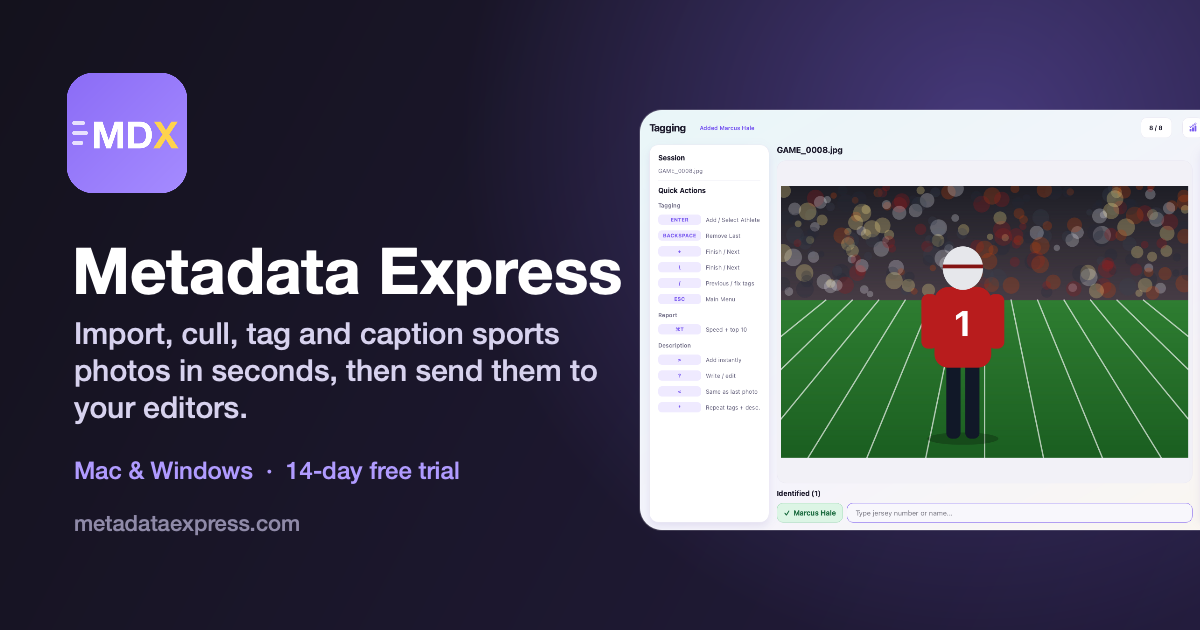
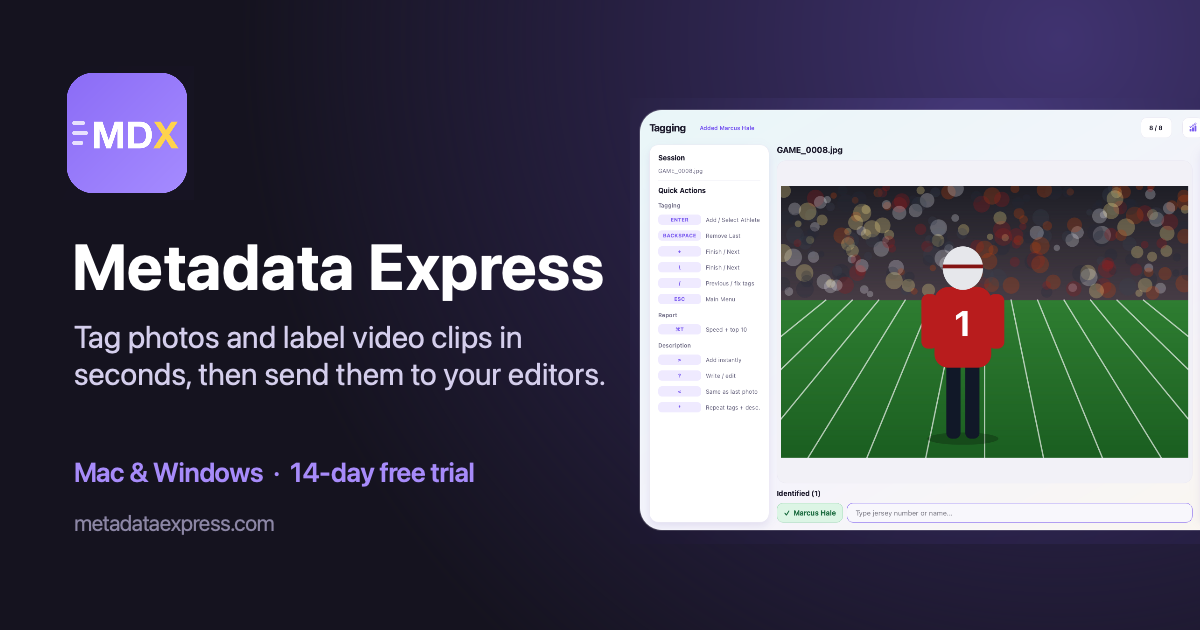
Site: an app for creatives (photos and video): hero, descriptions, guides page, FAQ, llms.txt, share image

diff --git a/index.html b/index.html
@@ -4,7 +4,7 @@
   <meta charset="utf-8">
   <meta name="viewport" content="width=device-width, initial-scale=1">
   <title>Metadata Express: sports photo tagging, IPTC captions and video clip labeling (Mac &amp; Windows)</title>
-  <meta name="description" content="Metadata Express is a Mac and Windows app for sports photographers and video teams: import from SD cards, cull RAW files fast, type a jersey number to tag athletes, get Getty-style captions, label video clips as you watch them and send everything to your editors. 14-day free trial.">
+  <meta name="description" content="Metadata Express is a Mac and Windows app for creatives (sports photographers, videographers and social teams): import from SD cards, cull RAW files fast, type a jersey number to tag athletes, get Getty-style captions, label video clips as you watch them and send everything to your editors. 14-day free trial.">
   <link rel="icon" href="images/icon.png">
   <link rel="canonical" href="https://metadataexpress.com/">
   <meta property="og:type" content="website">
@@ -18,8 +18,8 @@
   <meta name="twitter:card" content="summary_large_image">
   <meta name="twitter:image" content="https://metadataexpress.com/images/og.png">
   <link rel="stylesheet" href="style.css">
-  <script type="application/ld+json">{"@context": "https://schema.org", "@type": "SoftwareApplication", "name": "Metadata Express", "url": "https://metadataexpress.com/", "image": "https://metadataexpress.com/images/og.png", "applicationCategory": "MultimediaApplication", "operatingSystem": "macOS, Windows", "description": "Desktop app for sports photographers and video teams: import photos from SD cards, cull RAW files, tag athletes by jersey number from a roster, write Getty-style captions and full IPTC metadata, label video clips as you watch them, and send photos and clips to editors through Dropbox, Google Drive, Box, OneDrive or FTP.", "featureList": ["Import from SD cards and drives with backup, renaming and IPTC templates", "Fast RAW culling for Sony, Canon, Nikon and Fujifilm", "Tag athletes by jersey number from a roster", "Getty-style captions", "Full IPTC templates (byline, credit, copyright, location, job ID)", "Send to Dropbox, Google Drive, Box, OneDrive, FTP and SFTP", "Rosters from ESPN, NFL, NBA, NHL, MLB, MLS and college sites", "Rename files with player names", "Label video clips by jersey number and your own play codes (Label Clips)", "Plays MXF, MOV and MP4: XAVC, ProRes, DNxHD, HEVC, AVCHD", "LOG preview in normal color (S-Log3, V-Log, F-Log, N-Log)", "Export video selects to Premiere Pro, Final Cut Pro and DaVinci Resolve", "Changeable keyboard shortcuts"], "offers": [{"@type": "Offer", "name": "Monthly", "price": "9.99", "priceCurrency": "USD"}, {"@type": "Offer", "name": "Yearly", "price": "99.00", "priceCurrency": "USD"}], "publisher": {"@type": "Organization", "name": "Metadata Express", "url": "https://metadataexpress.com/", "logo": "https://metadataexpress.com/images/icon.png", "email": "support@metadataexpress.com"}}</script>
-  <script type="application/ld+json">{"@context": "https://schema.org", "@type": "FAQPage", "mainEntity": [{"@type": "Question", "name": "Does it use AI?", "acceptedAnswer": {"@type": "Answer", "text": "Only if you want it to. Tagging, captions, culling and Lightroom transfer use no AI: you type a number and it looks the name up in your own roster. AI Suggest is optional, off by default, and runs only on your computer. If your clients require no AI at all, download the No AI version: it doesn't include any AI software, and it updates only to No AI versions."}}, {"@type": "Question", "name": "Do my photos get uploaded anywhere?", "acceptedAnswer": {"@type": "Answer", "text": "No. Metadata Express works on the photos on your computer and writes the metadata into the files themselves. Your photos, rosters and captions never leave your computer."}}, {"@type": "Question", "name": "How do I make a roster?", "acceptedAnswer": {"@type": "Answer", "text": "It's a simple text file: one line per athlete with their jersey number and name. Follow our step-by-step roster guide (with examples to download), build one in the app (click the i next to Roster in Session Setup), or let Metadata Express make one from the team's roster page."}}, {"@type": "Question", "name": "Can it send photos to my editors or social team?", "acceptedAnswer": {"@type": "Answer", "text": "Yes. Click Send… in Import / Cull and add a destination: your Dropbox, Google Drive, Box or OneDrive folder (found automatically; their app uploads it), or an FTP / SFTP server from your outlet or team. Photos go in the background, JPEGs only if you like, and can go automatically right after you import a card. Passwords are kept in your computer's keychain."}}, {"@type": "Question", "name": "Which files does it work with?", "acceptedAnswer": {"@type": "Answer", "text": "JPEG and RAW files from every major camera: Sony, Canon, Nikon, Fujifilm, OM System / Olympus, Panasonic, Pentax, Ricoh, Leica, Hasselblad, Phase One, Sigma and DNG. Tags and captions go inside JPEGs and into an .xmp file next to each RAW, which Lightroom and other photo software read."}}, {"@type": "Question", "name": "Does it work with video?", "acceptedAnswer": {"@type": "Answer", "text": "Yes. Label Clips plays your clips (MXF, MOV and MP4 from Sony, Canon, Panasonic, Fujifilm, Nikon, phones and GoPro, including XAVC, ProRes, DNxHD and HEVC) and lets you rename each one as you watch: a jersey number and Enter puts in the player, your own codes add the play. LOG footage shows in normal color, and you can mark In / Out and export your selects as a timeline for Premiere Pro, Final Cut Pro or DaVinci Resolve. Camera RAW video (BRAW, R3D) can be renamed and sent, but needs the camera maker's software to play."}}, {"@type": "Question", "name": "Will it work with the platform my team uses?", "acceptedAnswer": {"@type": "Answer", "text": "Metadata Express writes standard IPTC and XMP keywords and captions, the same fields Lightroom, wire services and most photo-sharing and athlete-delivery platforms read."}}, {"@type": "Question", "name": "Can it rename my files with player names?", "acceptedAnswer": {"@type": "Answer", "text": "Yes. In Session Setup, tick Rename photos with player names when saving and choose a style: DuffJrKJ1, DuffJr_KJ_1, DUFFJR_1, KJDuffJr1 or KJ_DuffJr_1. Photos with several players get every name (KJDuffJr_JesseOfurie1), numbers continue from what's already in the folder so nothing is overwritten, and the tags and captions are still written as usual."}}, {"@type": "Question", "name": "Will it overwrite the IPTC template I already use?", "acceptedAnswer": {"@type": "Answer", "text": "No. Metadata Express only writes the caption, keywords, the people shown and the template fields you fill in. Everything else already in your photos (byline, location, instructions, ratings, camera data) is kept. You can also build your full template right in the app."}}, {"@type": "Question", "name": "Does it work without internet?", "acceptedAnswer": {"@type": "Answer", "text": "Yes. It needs a connection once every 7 days to confirm your subscription, and once to download AI Suggest if you turn it on."}}, {"@type": "Question", "name": "Can I use it on my laptop and my desktop?", "acceptedAnswer": {"@type": "Answer", "text": "Yes. Each subscription works on 2 computers. You can move it to a new computer anytime from About & License > Deactivate."}}, {"@type": "Question", "name": "How do I cancel or change my plan?", "acceptedAnswer": {"@type": "Answer", "text": "Open Manage subscription (or About & License › Manage Subscription in the app) and sign in with the email you subscribed with. You can switch between monthly and yearly, update your card, or cancel. If you cancel, you keep using Metadata Express until the end of the period you paid for and won't be charged again. See our refund policy."}}, {"@type": "Question", "name": "Is there a Windows version?", "acceptedAnswer": {"@type": "Answer", "text": "Yes. Download for Windows above. Your subscription's 2 computers can be any mix of Mac and Windows."}}, {"@type": "Question", "name": "Can I suggest a feature?", "acceptedAnswer": {"@type": "Answer", "text": "Please do. Click Got an idea? (or Suggest a feature) in the app, send a suggestion on the website, or email suggestions@metadataexpress.com. Every one is read by the person who builds Metadata Express."}}, {"@type": "Question", "name": "How do I get help?", "acceptedAnswer": {"@type": "Answer", "text": "Send us a message through the contact form and we'll reply by email."}}]}</script>
+  <script type="application/ld+json">{"@context": "https://schema.org", "@type": "SoftwareApplication", "name": "Metadata Express", "url": "https://metadataexpress.com/", "image": "https://metadataexpress.com/images/og.png", "applicationCategory": "MultimediaApplication", "operatingSystem": "macOS, Windows", "description": "Desktop app for creatives (sports photographers, videographers and social teams): import photos from SD cards, cull RAW files, tag athletes by jersey number from a roster, write Getty-style captions and full IPTC metadata, label video clips as you watch them, and send photos and clips to editors through Dropbox, Google Drive, Box, OneDrive or FTP.", "featureList": ["Import from SD cards and drives with backup, renaming and IPTC templates", "Fast RAW culling for Sony, Canon, Nikon and Fujifilm", "Tag athletes by jersey number from a roster", "Getty-style captions", "Full IPTC templates (byline, credit, copyright, location, job ID)", "Send to Dropbox, Google Drive, Box, OneDrive, FTP and SFTP", "Rosters from ESPN, NFL, NBA, NHL, MLB, MLS and college sites", "Rename files with player names", "Label video clips by jersey number and your own play codes (Label Clips)", "Plays MXF, MOV and MP4: XAVC, ProRes, DNxHD, HEVC, AVCHD", "LOG preview in normal color (S-Log3, V-Log, F-Log, N-Log)", "Export video selects to Premiere Pro, Final Cut Pro and DaVinci Resolve", "Changeable keyboard shortcuts"], "offers": [{"@type": "Offer", "name": "Monthly", "price": "9.99", "priceCurrency": "USD"}, {"@type": "Offer", "name": "Yearly", "price": "99.00", "priceCurrency": "USD"}], "publisher": {"@type": "Organization", "name": "Metadata Express", "url": "https://metadataexpress.com/", "logo": "https://metadataexpress.com/images/icon.png", "email": "support@metadataexpress.com"}}</script>
+  <script type="application/ld+json">{"@context": "https://schema.org", "@type": "FAQPage", "mainEntity": [{"@type": "Question", "name": "Does it use AI?", "acceptedAnswer": {"@type": "Answer", "text": "Only if you want it to. Tagging, captions, culling and Lightroom transfer use no AI: you type a number and it looks the name up in your own roster. AI Suggest is optional, off by default, and runs only on your computer. If your clients require no AI at all, download the No AI version: it doesn't include any AI software, and it updates only to No AI versions."}}, {"@type": "Question", "name": "Do my photos or clips get uploaded anywhere?", "acceptedAnswer": {"@type": "Answer", "text": "No. Metadata Express works on the photos and video clips on your computer and writes the metadata into the files themselves. Your files, rosters and captions never leave your computer unless you send them."}}, {"@type": "Question", "name": "How do I make a roster?", "acceptedAnswer": {"@type": "Answer", "text": "It's a simple text file: one line per athlete with their jersey number and name. Follow our step-by-step roster guide (with examples to download), build one in the app (click the i next to Roster in Session Setup), or let Metadata Express make one from the team's roster page."}}, {"@type": "Question", "name": "Can it send photos to my editors or social team?", "acceptedAnswer": {"@type": "Answer", "text": "Yes. Click Send… in Import / Cull and add a destination: your Dropbox, Google Drive, Box or OneDrive folder (found automatically; their app uploads it), or an FTP / SFTP server from your outlet or team. Photos go in the background, JPEGs only if you like, and can go automatically right after you import a card. Passwords are kept in your computer's keychain."}}, {"@type": "Question", "name": "Which files does it work with?", "acceptedAnswer": {"@type": "Answer", "text": "JPEG and RAW files from every major camera: Sony, Canon, Nikon, Fujifilm, OM System / Olympus, Panasonic, Pentax, Ricoh, Leica, Hasselblad, Phase One, Sigma and DNG. Tags and captions go inside JPEGs and into an .xmp file next to each RAW, which Lightroom and other photo software read."}}, {"@type": "Question", "name": "Does it work with video?", "acceptedAnswer": {"@type": "Answer", "text": "Yes. Label Clips plays your clips (MXF, MOV and MP4 from Sony, Canon, Panasonic, Fujifilm, Nikon, phones and GoPro, including XAVC, ProRes, DNxHD and HEVC) and lets you rename each one as you watch: a jersey number and Enter puts in the player, your own codes add the play. LOG footage shows in normal color, and you can mark In / Out and export your selects as a timeline for Premiere Pro, Final Cut Pro or DaVinci Resolve. Camera RAW video (BRAW, R3D) can be renamed and sent, but needs the camera maker's software to play."}}, {"@type": "Question", "name": "Will it work with the platform my team uses?", "acceptedAnswer": {"@type": "Answer", "text": "Metadata Express writes standard IPTC and XMP keywords and captions, the same fields Lightroom, wire services and most photo-sharing and athlete-delivery platforms read."}}, {"@type": "Question", "name": "Can it rename my files with player names?", "acceptedAnswer": {"@type": "Answer", "text": "Yes. In Session Setup, tick Rename photos with player names when saving and choose a style: DuffJrKJ1, DuffJr_KJ_1, DUFFJR_1, KJDuffJr1 or KJ_DuffJr_1. Photos with several players get every name (KJDuffJr_JesseOfurie1), numbers continue from what's already in the folder so nothing is overwritten, and the tags and captions are still written as usual."}}, {"@type": "Question", "name": "Will it overwrite the IPTC template I already use?", "acceptedAnswer": {"@type": "Answer", "text": "No. Metadata Express only writes the caption, keywords, the people shown and the template fields you fill in. Everything else already in your photos (byline, location, instructions, ratings, camera data) is kept. You can also build your full template right in the app."}}, {"@type": "Question", "name": "Does it work without internet?", "acceptedAnswer": {"@type": "Answer", "text": "Yes. It needs a connection once every 7 days to confirm your subscription, and once to download AI Suggest if you turn it on."}}, {"@type": "Question", "name": "Can I use it on my laptop and my desktop?", "acceptedAnswer": {"@type": "Answer", "text": "Yes. Each subscription works on 2 computers. You can move it to a new computer anytime from About & License > Deactivate."}}, {"@type": "Question", "name": "How do I cancel or change my plan?", "acceptedAnswer": {"@type": "Answer", "text": "Open Manage subscription (or About & License › Manage Subscription in the app) and sign in with the email you subscribed with. You can switch between monthly and yearly, update your card, or cancel. If you cancel, you keep using Metadata Express until the end of the period you paid for and won't be charged again. See our refund policy."}}, {"@type": "Question", "name": "Is there a Windows version?", "acceptedAnswer": {"@type": "Answer", "text": "Yes. Download for Windows above. Your subscription's 2 computers can be any mix of Mac and Windows."}}, {"@type": "Question", "name": "Can I suggest a feature?", "acceptedAnswer": {"@type": "Answer", "text": "Please do. Click Got an idea? (or Suggest a feature) in the app, send a suggestion on the website, or email suggestions@metadataexpress.com. Every one is read by the person who builds Metadata Express."}}, {"@type": "Question", "name": "How do I get help?", "acceptedAnswer": {"@type": "Answer", "text": "Send us a message through the contact form and we'll reply by email."}}]}</script>
 </head>
 <body>
 
@@ -44,14 +44,14 @@
 
 <section class="hero">
   <div class="wrap">
-    <span class="eyebrow">Built for sports photographers and video teams</span>
+    <span class="eyebrow">Built for creatives</span>
     <h1>Sports photos, <span>tagged and captioned</span> in seconds.</h1>
     <p class="lead">Import straight from your SD card, cull fast, then type a jersey number and Metadata Express fills in the athlete's name. It writes the keywords and a Getty-style caption into every photo and sends them to your editors or Lightroom. Shooting video too? Label your clips as you watch them.</p>
     <div class="ctas">
       <a class="btn primary" id="hero-download" href="https://github.com/MDA-code/metadata-express/releases/latest/download/Metadata-Express.dmg">Download for Mac · free 14-day trial</a>
       <a class="btn" href="#download">Other downloads</a>
     </div>
-    <p class="note">Mac &amp; Windows · Your photos never leave your computer · Cancel anytime</p>
+    <p class="note">Mac &amp; Windows · Photos and video · Your files never leave your computer · Cancel anytime</p>
     <div class="shot"><picture><source type="image/webp" srcset="images/demo.webp"><img src="images/tagging.png" alt="Metadata Express tagging a game: typing a jersey number adds the athlete's name, and the Getty-style caption fills in automatically" width="1500" height="940"></picture></div>
   </div>
 </section>
@@ -243,7 +243,7 @@
     <h2>Questions</h2>
     <div class="faq">
       <details><summary>Does it use AI?</summary><p>Only if you want it to. Tagging, captions, culling and Lightroom transfer use no AI: you type a number and it looks the name up in your own roster. AI Suggest is optional, off by default, and runs only on your computer. If your clients require no AI at all, download the <a href="#download">No AI version</a>: it doesn't include any AI software, and it updates only to No AI versions.</p></details>
-      <details><summary>Do my photos get uploaded anywhere?</summary><p>No. Metadata Express works on the photos on your computer and writes the metadata into the files themselves. Your photos, rosters and captions never leave your computer.</p></details>
+      <details><summary>Do my photos or clips get uploaded anywhere?</summary><p>No. Metadata Express works on the photos and video clips on your computer and writes the metadata into the files themselves. Your files, rosters and captions never leave your computer unless you send them.</p></details>
       <details><summary>How do I make a roster?</summary><p>It's a simple text file: one line per athlete with their jersey number and name. Follow our <a href="roster.html">step-by-step roster guide</a> (with examples to download), build one in the app (click the <strong>i</strong> next to Roster in Session Setup), or let Metadata Express make one from the team's roster page.</p></details>
       <details><summary>Can it send photos to my editors or social team?</summary><p>Yes. Click <strong>Send…</strong> in Import / Cull and add a destination: your Dropbox, Google Drive, Box or OneDrive folder (found automatically; their app uploads it), or an FTP / SFTP server from your outlet or team. Photos go in the background, JPEGs only if you like, and can go automatically right after you import a card. Passwords are kept in your computer's keychain.</p></details>
       <details><summary>Which files does it work with?</summary><p>JPEG and RAW files from every major camera: Sony, Canon, Nikon, Fujifilm, OM System / Olympus, Panasonic, Pentax, Ricoh, Leica, Hasselblad, Phase One, Sigma and DNG. Tags and captions go inside JPEGs and into an .xmp file next to each RAW, which Lightroom and other photo software read.</p></details>

diff --git a/guides.html b/guides.html
@@ -3,15 +3,15 @@
 <head>
   <meta charset="utf-8">
   <meta name="viewport" content="width=device-width, initial-scale=1">
-  <title>Guides for sports photographers · Metadata Express</title>
-  <meta name="description" content="How-to guides for sports photographers: importing SD cards with a backup, IPTC metadata, tagging by jersey number, sending photos to editors and making rosters.">
+  <title>Guides for photographers and video teams · Metadata Express</title>
+  <meta name="description" content="How-to guides for sports photographers and video teams: importing SD cards with a backup, IPTC metadata, tagging by jersey number, labeling video clips and exporting selects, sending to editors and making rosters.">
   <link rel="icon" href="images/icon.png">
   <link rel="canonical" href="https://metadataexpress.com/guides.html">
   <meta property="og:type" content="website">
   <meta property="og:site_name" content="Metadata Express">
   <meta property="og:url" content="https://metadataexpress.com/guides.html">
-  <meta property="og:title" content="Guides for sports photographers">
-  <meta property="og:description" content="How-to guides for sports photographers: importing SD cards with a backup, IPTC metadata, tagging by jersey number, sending photos to editors and making rosters.">
+  <meta property="og:title" content="Guides for photographers and video teams">
+  <meta property="og:description" content="How-to guides for sports photographers and video teams: importing SD cards with a backup, IPTC metadata, tagging by jersey number, labeling video clips and exporting selects, sending to editors and making rosters.">
   <meta property="og:image" content="https://metadataexpress.com/images/og.png">
   <meta property="og:image:width" content="1200">
   <meta property="og:image:height" content="630">
@@ -35,7 +35,7 @@
 
 <main class="legal">
   <h1>Guides</h1>
-  <p class="updated">Practical how-tos for sports photographers.</p>
+  <p class="updated">Practical how-tos for photographers and video teams.</p>
   <div style="display:grid;gap:16px;margin-top:20px">
     <div class="card"><h3><a href="guide-ingest-sd-card.html">How to import photos from an SD card with an automatic backup</a></h3><p>A safe, fast way to copy photos off an SD card: named folders, renamed files, a second backup copy, your IPTC info added while copying, and only new photos on repeat imports.</p></div>
     <div class="card"><h3><a href="guide-iptc-metadata.html">IPTC metadata for sports photographers: what each field means</a></h3><p>Byline, credit, source, copyright, headline, job ID, location and more: what each IPTC field is for, what wire services expect, and how to fill them in once with a template.</p></div>

diff --git a/guide-video-selects.html b/guide-video-selects.html
@@ -39,7 +39,7 @@
   <h1>How to label sports video clips and send your best ones to Premiere, Final Cut or Resolve</h1>
   <p class="updated">10 minutes the first time, then seconds per clip.</p>
 
-<p>After a game, most video teams rename every clip so they can find it later: <code>Lonergan pass complete to Duff 11 yards</code> instead of <code>489_9656.MXF</code>. Then someone opens the editing app and rebuilds the best moments by hand. Label Clips in Metadata Express does both while you watch the clips once.</p>
+<p>After a game, most video teams rename every clip so they can find it later: <code>Hale pass complete to Brooks 23 yards</code> instead of <code>489_9656.MXF</code>. Then someone opens the editing app and rebuilds the best moments by hand. Label Clips in Metadata Express does both while you watch the clips once.</p>
 
 <img src="images/label-clips.png" alt="Label Clips: the clip list, the video with In and Out marks, the clip's info and the name being typed" width="1500" height="917" loading="lazy" style="width:100%;height:auto;border-radius:14px;border:1px solid var(--card-border);margin:8px 0 6px">
 
